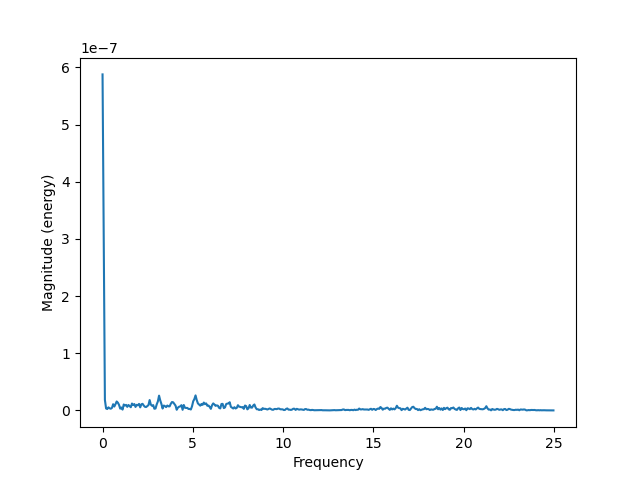
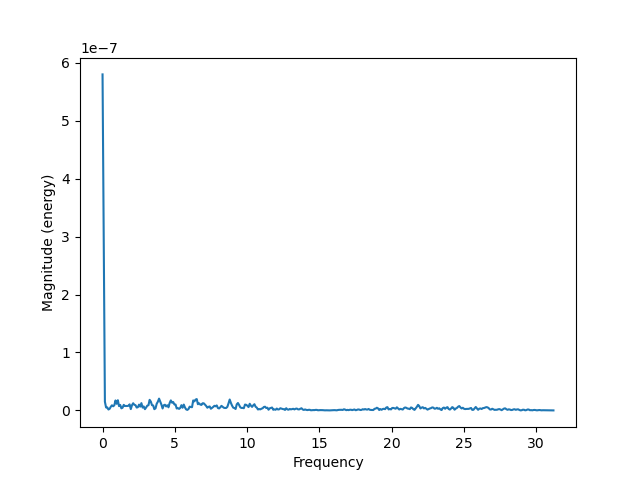
Working raster plot function

diff --git a/Examples/rasterPlotFileEx.py b/Examples/rasterPlotFileEx.py
@@ -7,8 +7,6 @@ import lowpassDownsample
 from scipy.signal import iirfilter, zpk2sos, sosfilt
 import warnings
 import time
-import seaborn as sns
-from datashader import transfer_functions as tf, reductions as rd
 
 plt.switch_backend('agg')
 
@@ -22,9 +20,11 @@ def main(argv):
 	#img = plt.imshow(downsample_signal, aspect='auto',interpolation='none');
 	#plt.ylabel('Amp')
 	#plt.xlabel('Time')
-	img = ds.tf.shade(signal, cmap=fire, how='linear')
-export_image(img, "out", background="black", export_path="figures/")
-
+	#img = ds.tf.shade(signal, cmap=fire, how='linear')
+#export_image(img, "out", background="black", export_path="figures/")
+	plt.imshow(signal,aspect='auto',interpolation='nearest',vmin=-1*np.percentile(signal,99),vmax=np.percentile(signal,99),cmap='seismic');
+	plt.colorbar()
+	plt.savefig('figures/rasterPlot.png');
 if __name__ == "__main__":
 	main(sys.argv[1:])
 

diff --git a/Examples/lowpassAndDownsampleFileEx.py b/Examples/lowpassAndDownsampleFileEx.py
@@ -12,11 +12,11 @@ plt.switch_backend('agg')
 
 def main(argv):
 	fileName = argv[0]
-	integerDownsampleFactor = 10;
+	integerDownsampleFactor = 8;
 	#Run lowpass filter and downsample 
 
 	(time, signal, downsample_time, downsample_signal, sample_freq, downsampled_sample_freq) = lowpassDownsample.runLowpassAndDownsampleWithFile(integerDownsampleFactor,fileName);
-	channelNumber = 25;
+	channelNumber = 60;
 	startTime = 3.00;
 	endTime = 11.0;
 
